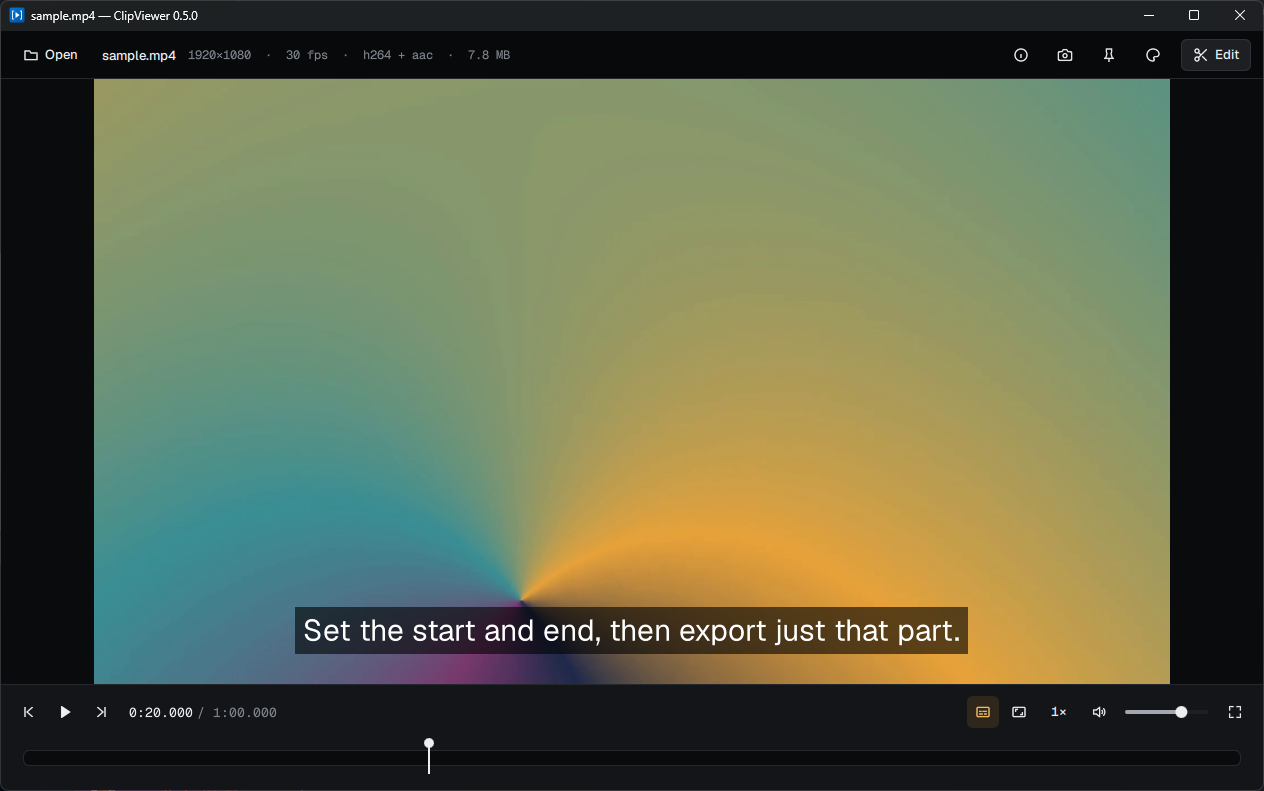
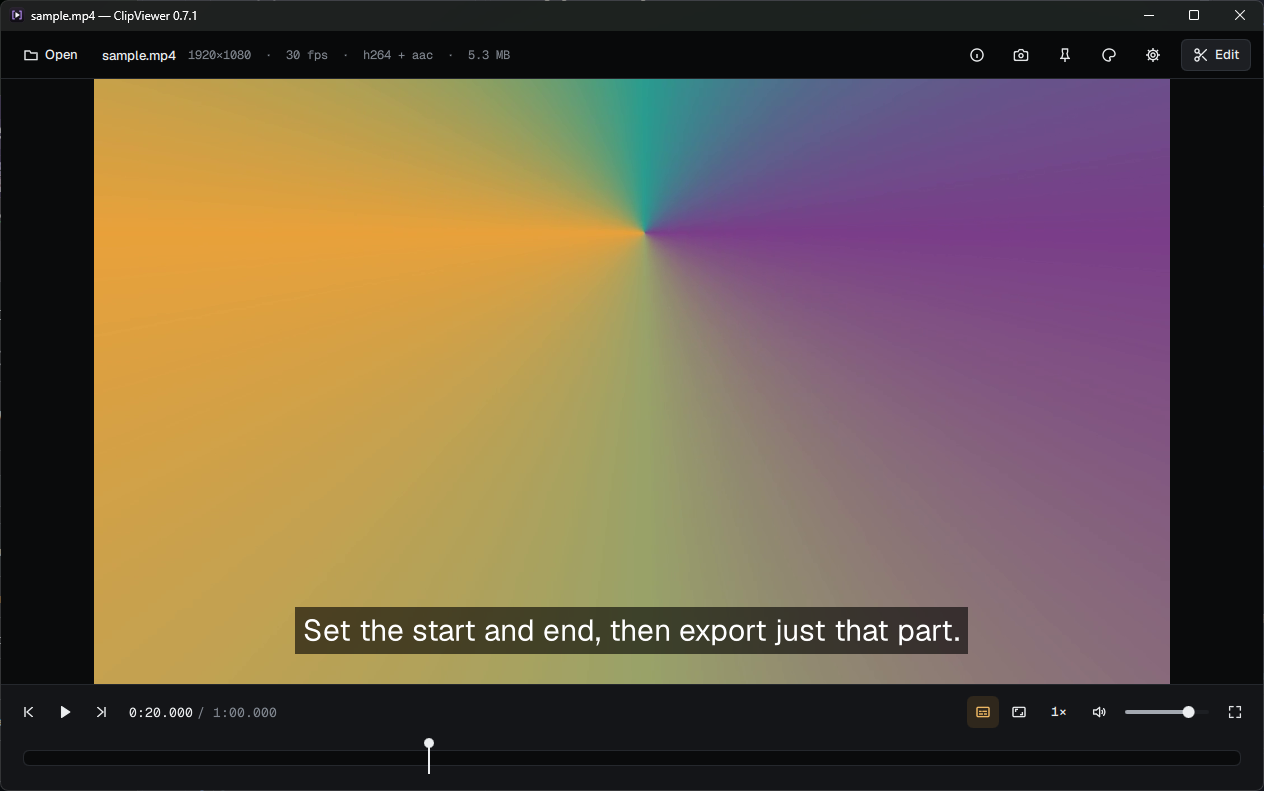
Update the screenshots and add a gallery of palettes, styles and layouts

diff --git a/docs/SCREENSHOTS.md b/docs/SCREENSHOTS.md
@@ -1,0 +1,56 @@
+# Screenshots
+
+All screenshots are of ClipViewer 0.7.1 on Windows 11, with the window at 1264×791. The palette
+and style are picked from the palette menu in the top bar. Compact is in the settings (the gear).
+
+## Player and editor
+
+The player, as the window opens:
+
+![The player showing a paused video](screenshots/player.png)
+
+Edit mode (E), with a 30-second range selected for export:
+
+![The trim editor, with a 30-second range selected for export](screenshots/editor.png)
+
+## Minimal and compact
+
+With the controls hidden (Ctrl+H), only the video and a thin progress line are left:
+
+![The player with the controls hidden](screenshots/minimal.png)
+
+Compact mode makes the bars and controls smaller, with any style:
+
+![The trim editor in compact mode](screenshots/compact.png)
+
+## Palettes
+
+Each palette has a dark and a light side. The Dark/Light switch in the palette menu swaps
+between them.
+
+| Palette | Dark | Light |
+| --- | --- | --- |
+| Graphite (default) | ![Graphite](screenshots/theme-graphite.png) | ![Paper](screenshots/theme-paper.png) |
+| Slate | ![Slate](screenshots/theme-slate.png) | ![Mist](screenshots/theme-mist.png) |
+| Plum | ![Plum](screenshots/theme-plum.png) | ![Plum light](screenshots/theme-plum-light.png) |
+| Sage | ![Sage dark](screenshots/theme-sage-dark.png) | ![Sage](screenshots/theme-sage.png) |
+| Lavender | ![Lavender](screenshots/theme-lavender.png) | ![Lavender light](screenshots/theme-lavender-light.png) |
+| Azure | ![Azure](screenshots/theme-azure.png) | ![Azure light](screenshots/theme-azure-light.png) |
+| Steel | ![Steel](screenshots/theme-steel.png) | ![Steel light](screenshots/theme-steel-light.png) |
+
+## Styles
+
+The style sets the shape of the controls and the fonts, and goes with any palette. These are all
+on the Graphite palette. The default Graphite style is in [Player and editor](#player-and-editor).
+
+Material:
+
+![The editor in the Material style](screenshots/style-material.png)
+
+Fluent:
+
+![The editor in the Fluent style](screenshots/style-fluent.png)
+
+Adwaita:
+
+![The editor in the Adwaita style](screenshots/style-adwaita.png)

diff --git a/README.md b/README.md
@@ -16,6 +16,9 @@ Export and still frames use FFmpeg, run as an external program.
 
 </details>
 
+More in [Screenshots](docs/SCREENSHOTS.md): every palette in dark and light, the Material,
+Fluent and Adwaita styles, compact mode, and the player with the controls hidden.
+
 It's built for Windows, Linux and macOS, but only Windows has been tested.
 
 > **Note:** Linux and macOS haven't been tested. CI builds the project on Linux and runs the
